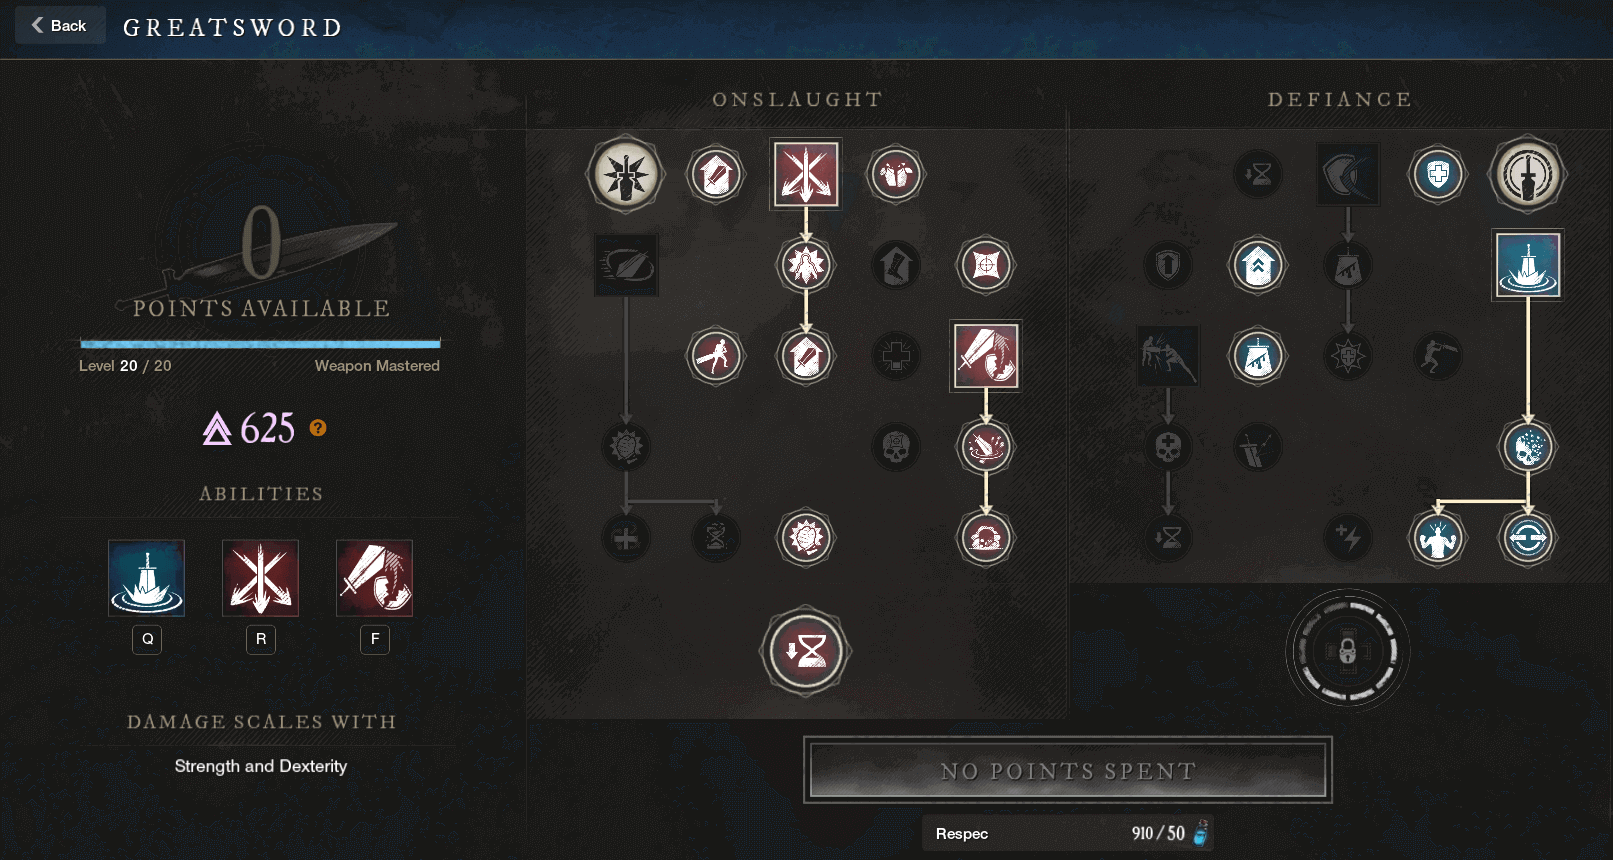
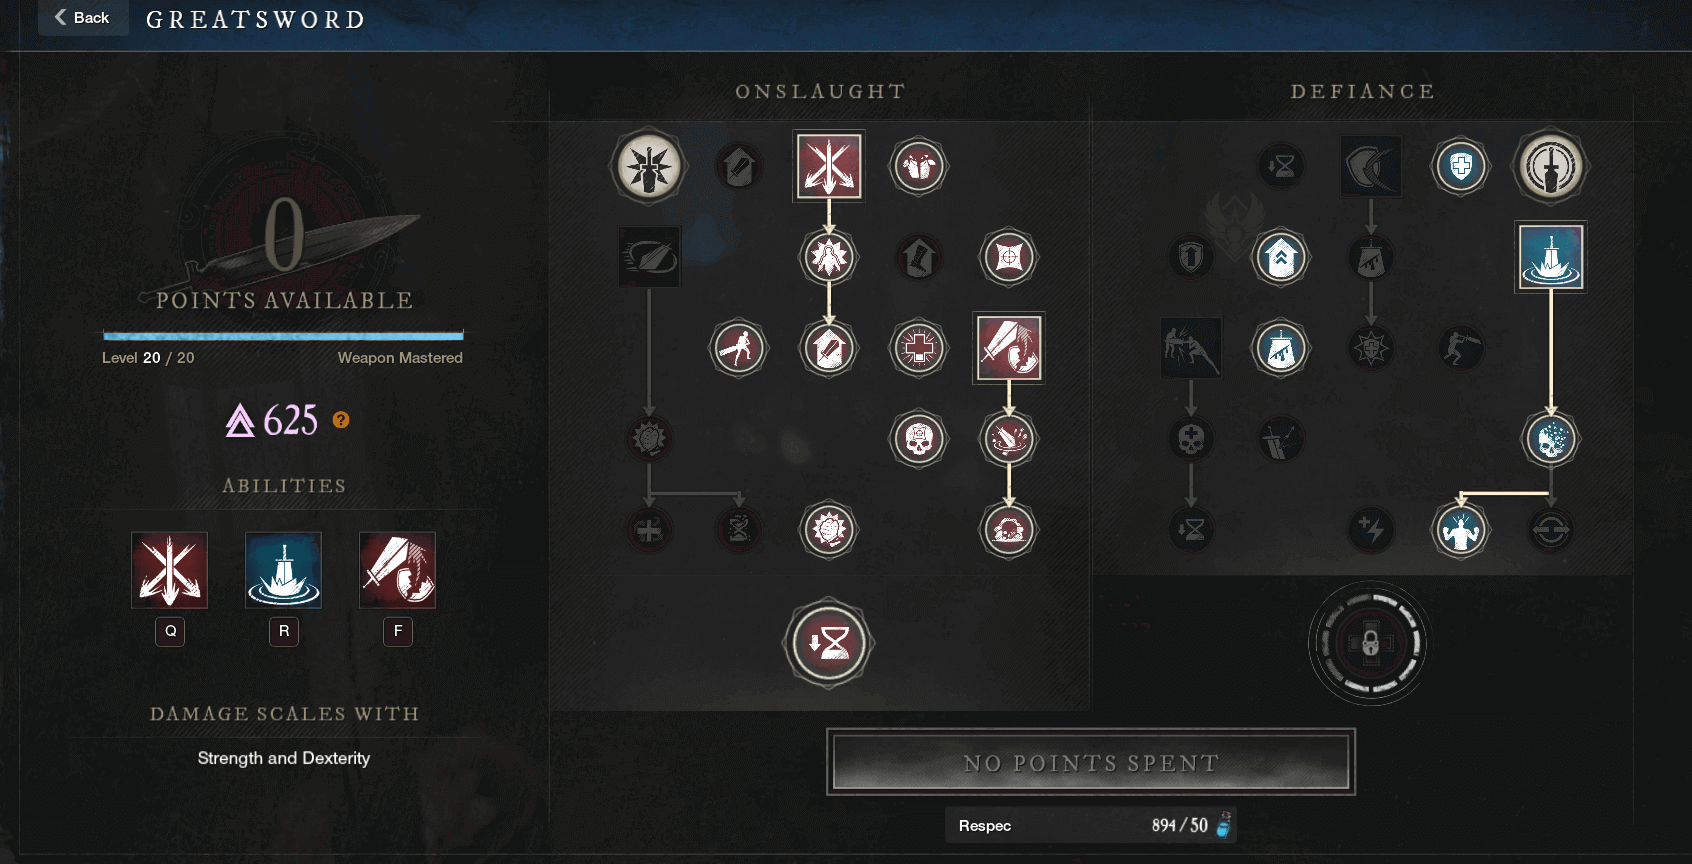
Fix GS Trees

diff --git a/content/en/nw/info/skills/dps.md b/content/en/nw/info/skills/dps.md
@@ -11,9 +11,15 @@ toc: true
 
 
 ### Greatsword
+#### Highest DPS
+<a href="/images/skilltrees/greatsword/dps.png" target="_blank"><img src="/images/skilltrees/greatsword/dps.png"></a>
 
+#### Recommended
+Open with Rupture for the Fortify & Weaken, then use Skyward/Crosscut to change stance and start swinging heavies.
 
 <a href="/images/skilltrees/greatsword/1.png" target="_blank"><img src="/images/skilltrees/greatsword/1.png"></a>
+
+
 
 ---
 
